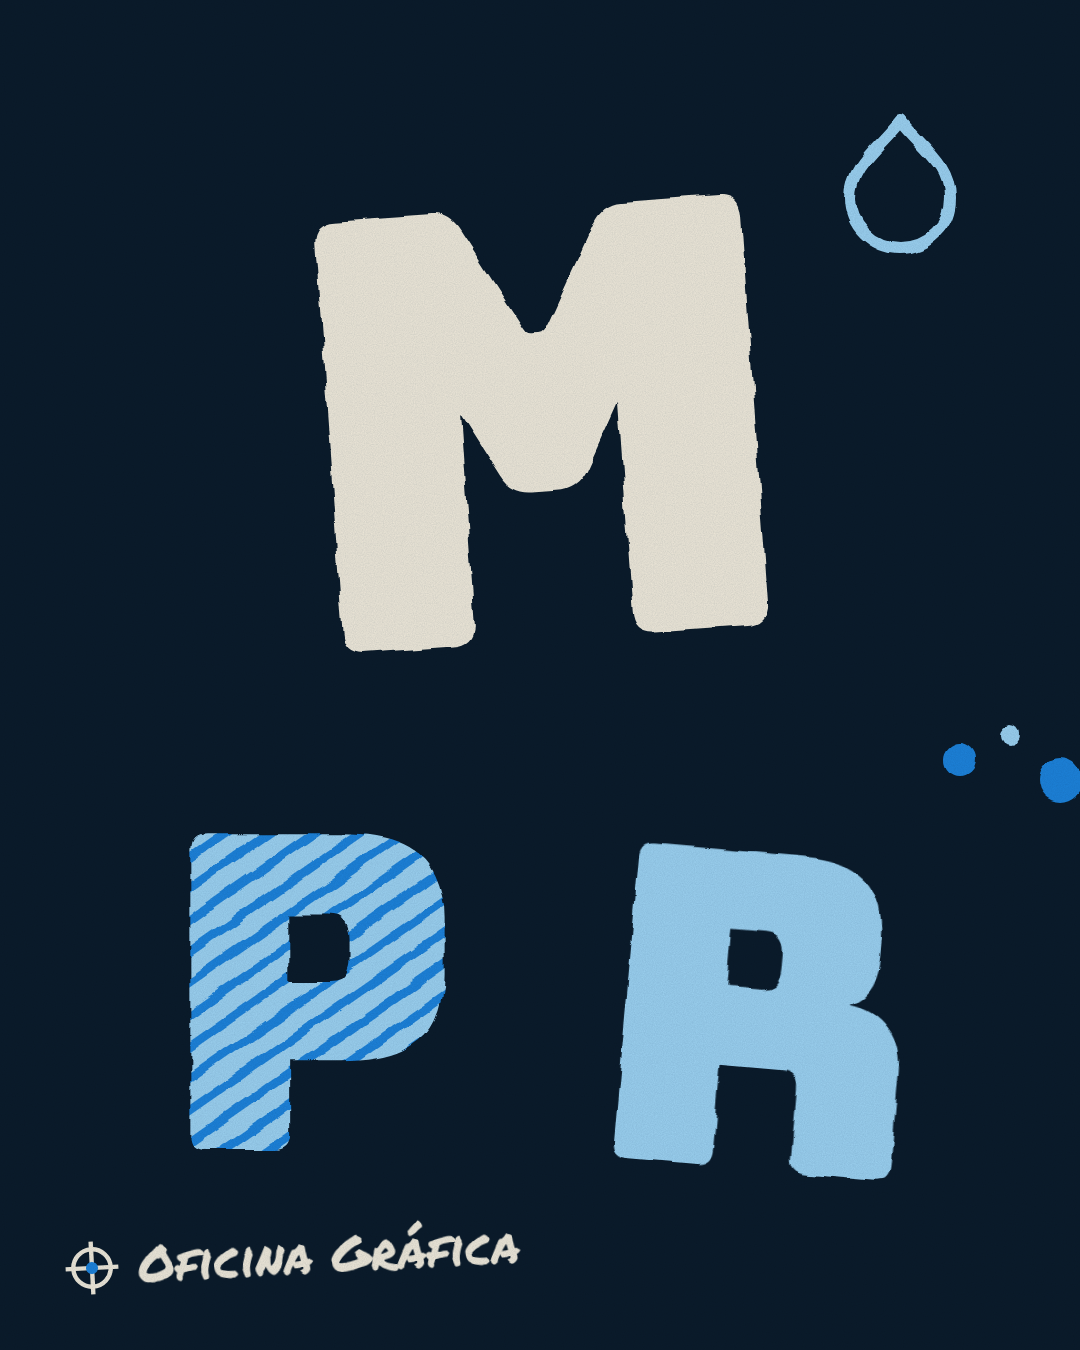
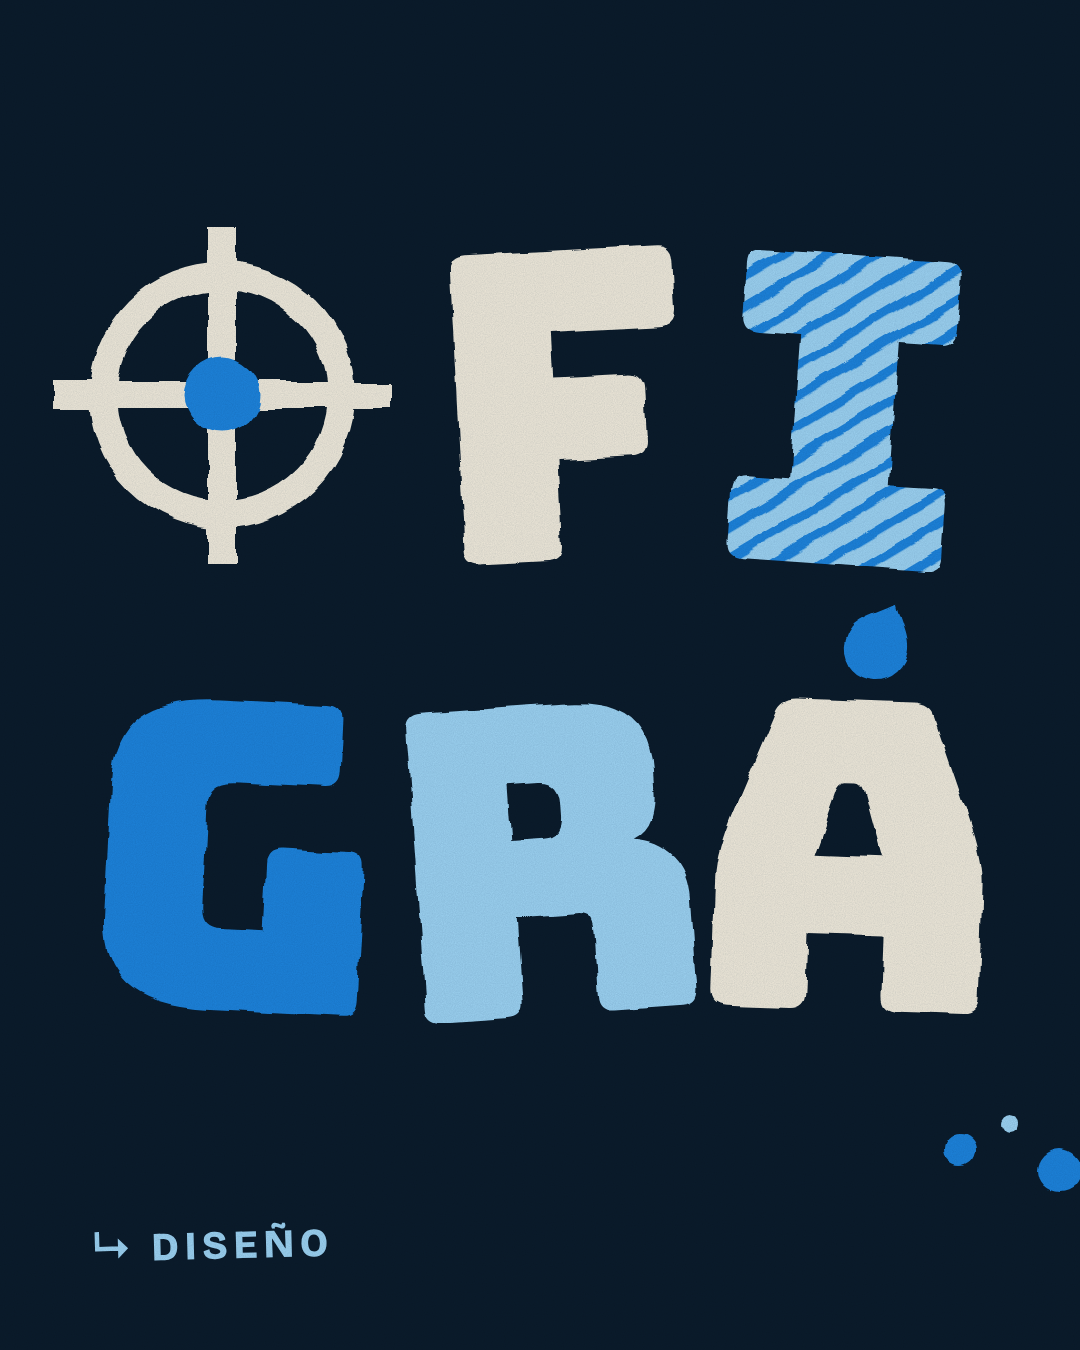
Redes: primeros 3 posteos ahora dicen «OFICINA GRÁFICA», con los temas de la cuenta
Claude-Session: https://claude.ai/code/session_01FGxw9aPArw9pn3yxwBbtRR

diff --git a/redes/lanzamiento/panorama.html b/redes/lanzamiento/panorama.html
@@ -10,7 +10,7 @@
   .marker{font-family:Marker;}
   .brico{font-family:Bricolage;font-weight:800;}
 </style></head><body>
-<!-- Panorama de 3 posteos (1080 x 1350 cada uno) que juntos dicen «MUY PRONTO». -->
+<!-- Panorama de 3 posteos (1080 x 1350 cada uno) que juntos dicen «OFICINA GRÁFICA». -->
 <svg width="3240" height="1350" viewBox="0 0 3240 1350" xmlns="http://www.w3.org/2000/svg">
   <defs>
     <filter id="rough" x="-10%" y="-10%" width="120%" height="120%">
@@ -37,51 +37,52 @@
   <rect x="1080" y="0" width="1080" height="1350" fill="#EEE7D8"/>
   <rect x="2160" y="0" width="1080" height="1350" fill="#1C82D9"/>
 
-  <!-- fila 1: M · U · Y -->
+  <!-- fila 1: OFI · CI · NA (la O es la mira de registro del logo) -->
   <g filter="url(#rough)">
-    <text class="bungee" x="540" y="640" font-size="600" text-anchor="middle" fill="#EEE7D8" transform="rotate(-4 540 400)">M</text>
-    <text class="bungee" x="1620" y="650" font-size="600" text-anchor="middle" fill="#1C82D9" transform="rotate(3 1620 400)">U</text>
-    <text class="bungee" x="2700" y="640" font-size="600" text-anchor="middle" fill="#EEE7D8" transform="rotate(-3 2700 400)">Y</text>
+    <g transform="translate(222 395) scale(3.5)" stroke="#EEE7D8"><use href="#mira"/><circle r="11" fill="#1C82D9" stroke="none"/></g>
+    <text class="bungee" x="560" y="560" font-size="430" text-anchor="middle" fill="#EEE7D8" transform="rotate(-3 560 400)">F</text>
+    <text class="bungee" x="845" y="565" font-size="430" text-anchor="middle" fill="url(#rayado)" transform="rotate(4 845 400)">I</text>
+    <text class="bungee" x="1460" y="560" font-size="430" text-anchor="middle" fill="#1C82D9" transform="rotate(-4 1460 400)">C</text>
+    <text class="bungee" x="1810" y="565" font-size="430" text-anchor="middle" fill="#142A40" transform="rotate(3 1810 400)">I</text>
+    <text class="bungee" x="2520" y="560" font-size="430" text-anchor="middle" fill="#EEE7D8" transform="rotate(3 2520 400)">N</text>
+    <text class="bungee" x="2875" y="565" font-size="430" text-anchor="middle" fill="#0A1B2B" transform="rotate(-3 2875 400)">A</text>
   </g>
 
-  <!-- fila 2: PR · ON · TO (la primera O es la mira de registro del logo) -->
+  <!-- fila 2: GRÁ · FI · CA (el acento de la Á es una gota de tinta) -->
   <g filter="url(#rough)">
-    <text class="bungee" x="310" y="1150" font-size="440" text-anchor="middle" fill="url(#rayado)">P</text>
-    <text class="bungee" x="760" y="1170" font-size="440" text-anchor="middle" fill="#9BD0EF" transform="rotate(5 760 1000)">R</text>
-    <g transform="translate(1395 990) scale(3.2)" stroke="#0A1B2B">
-      <use href="#mira"/>
-      <circle r="11" fill="#1C82D9" stroke="none"/>
-    </g>
-    <text class="bungee" x="1850" y="1160" font-size="440" text-anchor="middle" fill="#142A40" transform="rotate(-4 1850 1000)">N</text>
-    <text class="bungee" x="2470" y="1150" font-size="440" text-anchor="middle" fill="#0A1B2B" transform="rotate(4 2470 1000)">T</text>
-    <text class="bungee" x="2920" y="1160" font-size="440" text-anchor="middle" fill="url(#spray)" stroke="#0A1B2B" stroke-width="10">O</text>
+    <text class="bungee" x="235" y="1010" font-size="430" text-anchor="middle" fill="#1C82D9" transform="rotate(3 235 850)">G</text>
+    <text class="bungee" x="545" y="1015" font-size="430" text-anchor="middle" fill="#9BD0EF" transform="rotate(-4 545 850)">R</text>
+    <text class="bungee" x="850" y="1010" font-size="430" text-anchor="middle" fill="#EEE7D8" transform="rotate(2 850 850)">A</text>
+    <path d="M880 600c14 18 32 28 32 50a32 32 0 1 1-64 0c0-22 18-32 32-50Z" fill="#1C82D9" transform="rotate(25 880 640)"/>
+    <text class="bungee" x="1450" y="1015" font-size="430" text-anchor="middle" fill="url(#spray)" stroke="#0A1B2B" stroke-width="10" transform="rotate(3 1450 850)">F</text>
+    <text class="bungee" x="1800" y="1010" font-size="430" text-anchor="middle" fill="#1C82D9" transform="rotate(-3 1800 850)">I</text>
+    <text class="bungee" x="2520" y="1015" font-size="430" text-anchor="middle" fill="#0A1B2B" transform="rotate(-2 2520 850)">C</text>
+    <text class="bungee" x="2870" y="1010" font-size="430" text-anchor="middle" fill="url(#spray)" stroke="#0A1B2B" stroke-width="10" transform="rotate(4 2870 850)">A</text>
   </g>
 
-  <!-- detalles: gota de tinta, tijera sobre línea de corte que cruza al tercer posteo, chispas -->
+  <!-- tijera sobre una línea de corte que cruza del segundo al tercer posteo, chispas -->
   <g filter="url(#rough)" fill="none" stroke-linecap="round" stroke-linejoin="round">
-    <path d="M900 120c22 28 50 44 50 78a50 50 0 1 1-100 0c0-34 28-50 50-78Z" stroke="#9BD0EF" stroke-width="12"/>
-    <line x1="1250" y1="1265" x2="3240" y2="1265" stroke="#0A1B2B" stroke-width="7" stroke-dasharray="26 20"/>
-    <g transform="translate(1195 1265) rotate(180) scale(1.6)" stroke="#0A1B2B" stroke-width="7">
+    <line x1="1250" y1="1150" x2="3240" y2="1150" stroke="#0A1B2B" stroke-width="7" stroke-dasharray="26 20"/>
+    <g transform="translate(1195 1150) rotate(180) scale(1.6)" stroke="#0A1B2B" stroke-width="7">
       <circle cx="-20" cy="-16" r="9"/><circle cx="-20" cy="16" r="9"/>
       <path d="M40 -22 L-12 -11 M40 22 L-12 11 M-9 0 L40 0"/>
     </g>
     <g stroke="#EEE7D8" stroke-width="10">
-      <path d="M3120 110v70M3085 145h70"/><path d="M2250 210v44M2228 232h44"/>
+      <path d="M3120 100v70M3085 135h70"/><path d="M2250 160v44M2228 182h44"/>
     </g>
   </g>
   <!-- salpicado de puntos que cruza del primero al segundo posteo -->
   <g filter="url(#rough)">
-    <circle cx="960" cy="760" r="16" fill="#1C82D9"/><circle cx="1010" cy="735" r="9" fill="#9BD0EF"/>
-    <circle cx="1060" cy="780" r="22" fill="#1C82D9"/><circle cx="1115" cy="745" r="11" fill="#142A40"/>
-    <circle cx="1165" cy="790" r="15" fill="#1C82D9"/><circle cx="1215" cy="760" r="7" fill="#142A40"/>
+    <circle cx="960" cy="1150" r="16" fill="#1C82D9"/><circle cx="1010" cy="1125" r="9" fill="#9BD0EF"/>
+    <circle cx="1060" cy="1170" r="22" fill="#1C82D9"/><circle cx="1115" cy="1135" r="11" fill="#142A40"/>
   </g>
 
-  <!-- firma (posteo 1) y año (posteo 3) -->
-  <g transform="translate(92 1268) rotate(-3)">
-    <g transform="scale(0.55)" stroke="#EEE7D8"><use href="#mira"/><circle r="11" fill="#1C82D9" stroke="none"/></g>
-    <text class="marker" x="46" y="17" font-size="50" fill="#EEE7D8">Oficina Gráfica</text>
+  <!-- etiquetas de los temas de la cuenta -->
+  <g class="brico" font-size="40" letter-spacing="6">
+    <text x="92" y="1262" fill="#9BD0EF" transform="rotate(-1.5 92 1262)">↳ DISEÑO</text>
+    <text x="1172" y="1262" fill="#2C6690" transform="rotate(-1.5 1172 1262)">↳ PAPELERÍA</text>
+    <text x="2252" y="1262" fill="#EEE7D8" transform="rotate(-1.5 2252 1262)">↳ TIPS &amp; TRUCOS</text>
   </g>
-  <text class="brico" x="3150" y="1225" font-size="46" text-anchor="end" fill="#EEE7D8">2026</text>
 
   <!-- grano de impresión sobre todo -->
   <rect width="3240" height="1350" filter="url(#grano)" opacity="0.3" style="mix-blend-mode:multiply"/>
